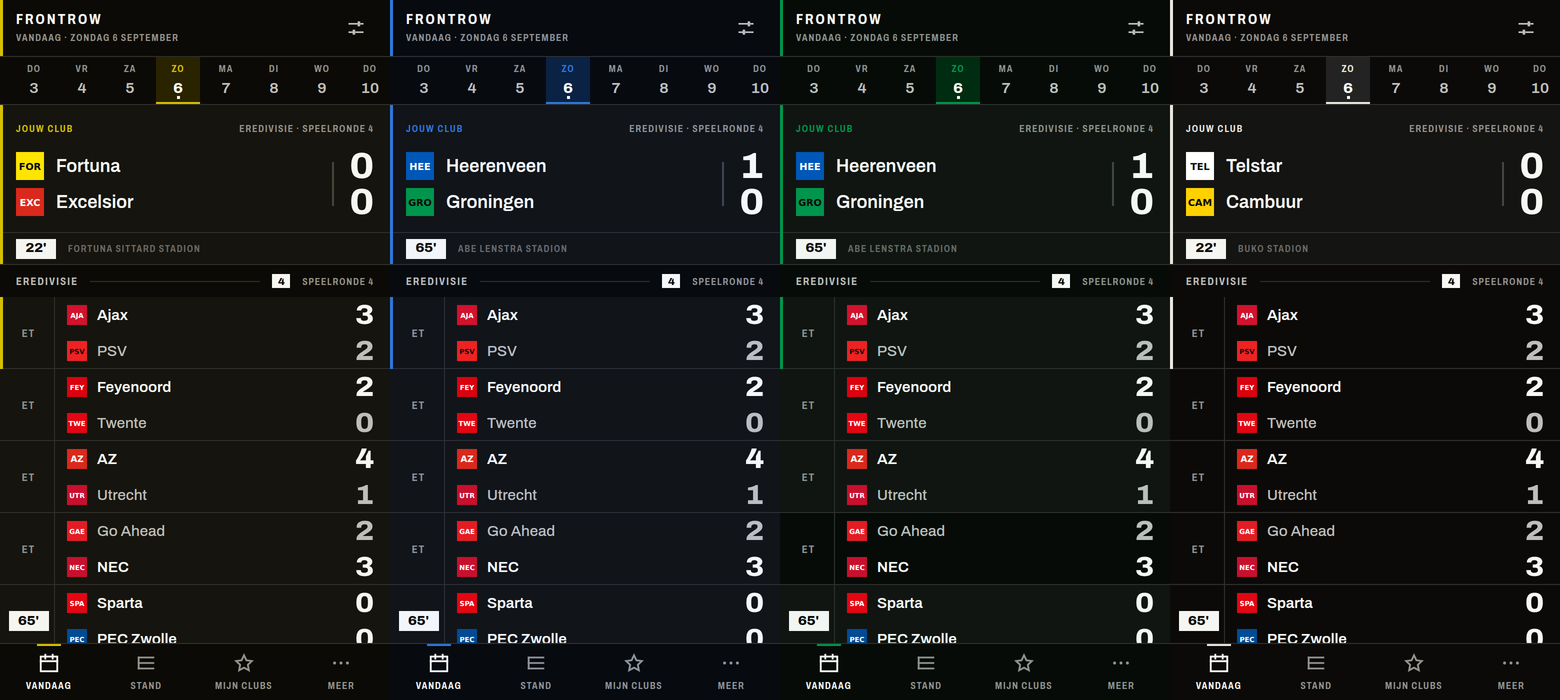
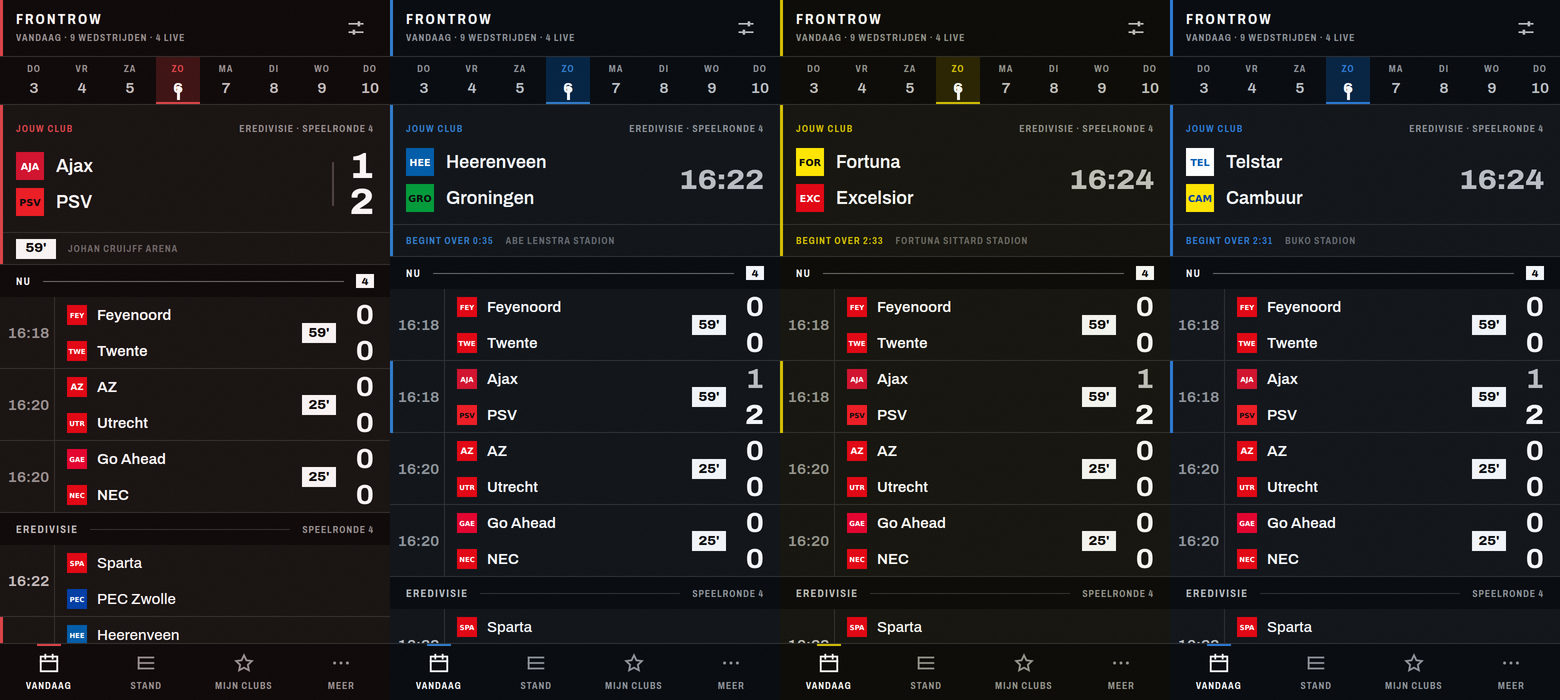
Frontrow: correct the Dutch details
Verified the seed data against openfootball and an ESPN teams dump. The club
lists were already right — 18 Eredivisie and 20 KKD, matching exactly — but
several details were not.

- Curated Eredivisie brand colours replace my approximations for fifteen
  clubs. These are deliberately not scraped: ESPN's own colour field returns
  white for FC Groningen and no green at all for Fortuna, so an automated
  refresh must never overwrite them.
- NEC and Telstar are the two genuinely unresolved cases — third-party sources
  disagree — and are now marked as such in the seed. Telstar turn out to be
  white and blue rather than white and black, which means the theme engine now
  correctly falls to their second colour instead of going monochrome; Heracles
  remain the monochrome case, and the test now covers both branches.
- Heerenveen keep the pompeblêden red as their second colour.
- Dutch table abbreviations fixed. "G" is used for both gespeeld and gelijk on
  different Dutch sites; Frontrow now uses G / W / GL / V, with DPV / DPT / DS
  and PNT. A Dutch table with the wrong letters reads as a foreign app.
- Score annotations are the ones Dutch fans actually expect: n.v., n.s., (p)
  and (e.d.).

Claude-Session: https://claude.ai/code/session_0181vbYt1HbtXw5J77PPPuxR

diff --git a/frontrow/backend/src/db/seed/teams.js b/frontrow/backend/src/db/seed/teams.js
@@ -1,6 +1,13 @@
 // Dutch professional clubs, seeded so Frontrow looks right the moment it starts
 // — crest colours, city, stadium and the alias spellings the providers use.
 //
+// The Eredivisie colours are curated from club brand sources, not scraped:
+// ESPN's own `color` field gets FC Groningen (returns white) and Fortuna (no
+// green at all) plainly wrong, so an automated refresh must never overwrite
+// these. NEC and Telstar are the two genuinely unresolved cases — third-party
+// datasets disagree — and both are marked below; correct them in Instellingen
+// and the app will remember.
+//
 // The sync engine can create a team it has never seen before (it happens with
 // cup ties against amateur sides), so this list is a head start, not a fence.
 // Colours are best-effort club brand colours; every one of them can be
@@ -17,15 +24,15 @@ export const TEAMS = [
        aliases: ['ajax', 'ajax amsterdam', 'afc ajax'] }),
   NL({ id: 'psv', name: 'PSV', full_name: 'PSV Eindhoven', short_name: 'PSV', code: 'PSV',
        city: 'Eindhoven', stadium: 'Philips Stadion', founded: 1913,
-       primary_color: '#EE2223', secondary_color: '#FFFFFF',
+       primary_color: '#ED1C24', secondary_color: '#FFFFFF',
        aliases: ['psv', 'psv eindhoven'] }),
   NL({ id: 'feyenoord', name: 'Feyenoord', full_name: 'Feyenoord Rotterdam', short_name: 'Feyenoord', code: 'FEY',
        city: 'Rotterdam', stadium: 'De Kuip', founded: 1908,
-       primary_color: '#DA020E', secondary_color: '#111111',
+       primary_color: '#E30613', secondary_color: '#FFFFFF',
        aliases: ['feyenoord', 'feyenoord rotterdam'] }),
   NL({ id: 'az', name: 'AZ', full_name: 'AZ Alkmaar', short_name: 'AZ', code: 'AZ',
        city: 'Alkmaar', stadium: 'AFAS Stadion', founded: 1967,
-       primary_color: '#DA291C', secondary_color: '#FFFFFF',
+       primary_color: '#E30613', secondary_color: '#FFFFFF',
        aliases: ['az', 'az alkmaar', 'alkmaar zaanstreek'] }),
   NL({ id: 'twente', name: 'FC Twente', full_name: 'FC Twente', short_name: 'Twente', code: 'TWE',
        city: 'Enschede', stadium: 'De Grolsch Veste', founded: 1965,
@@ -33,23 +40,24 @@ export const TEAMS = [
        aliases: ['twente', 'fc twente', 'twente enschede'] }),
   NL({ id: 'utrecht', name: 'FC Utrecht', full_name: 'FC Utrecht', short_name: 'Utrecht', code: 'UTR',
        city: 'Utrecht', stadium: 'Stadion Galgenwaard', founded: 1970,
-       primary_color: '#C8102E', secondary_color: '#111111',
+       primary_color: '#E30613', secondary_color: '#FFFFFF',
        aliases: ['utrecht', 'fc utrecht'] }),
   NL({ id: 'go_ahead_eagles', name: 'Go Ahead Eagles', full_name: 'Go Ahead Eagles', short_name: 'Go Ahead', code: 'GAE',
        city: 'Deventer', stadium: 'De Adelaarshorst', founded: 1902,
-       primary_color: '#E31C24', secondary_color: '#FFD200',
+       primary_color: '#E4032E', secondary_color: '#FFE500',
        aliases: ['go ahead eagles', 'go ahead', 'gae'] }),
+  // NEC: sources disagree (red+green, green+black, ESPN says red+light-blue).
   NL({ id: 'nec', name: 'NEC', full_name: 'NEC Nijmegen', short_name: 'NEC', code: 'NEC',
        city: 'Nijmegen', stadium: 'De Goffert', founded: 1900,
-       primary_color: '#C8102E', secondary_color: '#007A33',
+       primary_color: '#E30613', secondary_color: '#009036',
        aliases: ['nec', 'nec nijmegen', 'n e c'] }),
   NL({ id: 'heerenveen', name: 'sc Heerenveen', full_name: 'sc Heerenveen', short_name: 'Heerenveen', code: 'HEE',
        city: 'Heerenveen', stadium: 'Abe Lenstra Stadion', founded: 1920,
-       primary_color: '#0057B8', secondary_color: '#E1001A',
+       primary_color: '#005CA9', secondary_color: '#E30613',
        aliases: ['heerenveen', 'sc heerenveen'] }),
   NL({ id: 'groningen', name: 'FC Groningen', full_name: 'FC Groningen', short_name: 'Groningen', code: 'GRO',
        city: 'Groningen', stadium: 'Euroborg', founded: 1971,
-       primary_color: '#00954C', secondary_color: '#FFFFFF',
+       primary_color: '#009B3A', secondary_color: '#FFFFFF',
        aliases: ['groningen', 'fc groningen'] }),
   NL({ id: 'sparta', name: 'Sparta Rotterdam', full_name: 'Sparta Rotterdam', short_name: 'Sparta', code: 'SPA',
        city: 'Rotterdam', stadium: 'Het Kasteel', founded: 1888,
@@ -57,31 +65,32 @@ export const TEAMS = [
        aliases: ['sparta', 'sparta rotterdam'] }),
   NL({ id: 'pec_zwolle', name: 'PEC Zwolle', full_name: 'PEC Zwolle', short_name: 'PEC Zwolle', code: 'PEC',
        city: 'Zwolle', stadium: 'MAC³PARK stadion', founded: 1910,
-       primary_color: '#004B93', secondary_color: '#FFFFFF',
+       primary_color: '#003DA5', secondary_color: '#FFFFFF',
        aliases: ['pec zwolle', 'zwolle', 'pec'] }),
   NL({ id: 'fortuna_sittard', name: 'Fortuna Sittard', full_name: 'Fortuna Sittard', short_name: 'Fortuna', code: 'FOR',
        city: 'Sittard', stadium: 'Fortuna Sittard Stadion', founded: 1968,
-       primary_color: '#FFE500', secondary_color: '#007A33',
+       primary_color: '#FFE600', secondary_color: '#009036',
        aliases: ['fortuna sittard', 'fortuna'] }),
+  // Telstar: "de Witte Leeuwen" — white and blue; ESPN reports red and yellow.
   NL({ id: 'telstar', name: 'Telstar', full_name: 'SC Telstar', short_name: 'Telstar', code: 'TEL',
        city: 'Velsen-Zuid', stadium: 'BUKO Stadion', founded: 1963,
-       primary_color: '#FFFFFF', secondary_color: '#111111',
+       primary_color: '#FFFFFF', secondary_color: '#005EB8',
        aliases: ['telstar', 'sc telstar'] }),
   NL({ id: 'excelsior', name: 'Excelsior', full_name: 'SBV Excelsior', short_name: 'Excelsior', code: 'EXC',
        city: 'Rotterdam', stadium: 'Van Donge & De Roo Stadion', founded: 1902,
-       primary_color: '#DA291C', secondary_color: '#111111',
+       primary_color: '#E30613', secondary_color: '#000000',
        aliases: ['excelsior', 'sbv excelsior', 'excelsior rotterdam'] }),
   NL({ id: 'ado_den_haag', name: 'ADO Den Haag', full_name: 'ADO Den Haag', short_name: 'ADO', code: 'ADO',
        city: 'Den Haag', stadium: 'Bingoal Stadion', founded: 1905,
-       primary_color: '#009639', secondary_color: '#FFF200',
+       primary_color: '#FFD500', secondary_color: '#007A33',
        aliases: ['ado den haag', 'ado', 'den haag'] }),
   NL({ id: 'cambuur', name: 'SC Cambuur', full_name: 'SC Cambuur Leeuwarden', short_name: 'Cambuur', code: 'CAM',
        city: 'Leeuwarden', stadium: 'Cambuur Stadion', founded: 1964,
-       primary_color: '#FFD100', secondary_color: '#005CB9',
+       primary_color: '#FFE500', secondary_color: '#003DA5',
        aliases: ['cambuur', 'sc cambuur', 'cambuur leeuwarden'] }),
   NL({ id: 'willem_ii', name: 'Willem II', full_name: 'Willem II Tilburg', short_name: 'Willem II', code: 'WIL',
        city: 'Tilburg', stadium: 'Koning Willem II Stadion', founded: 1896,
-       primary_color: '#E30613', secondary_color: '#004B93',
+       primary_color: '#E30613', secondary_color: '#003DA5',
        aliases: ['willem ii', 'willem 2', 'willem ii tilburg'] }),
 
   // ------------------------------- Keuken Kampioen Divisie 2026/27 (20) ----

diff --git a/frontrow/frontend/test/theme.test.js b/frontrow/frontend/test/theme.test.js
@@ -73,13 +73,22 @@ test('the two accents are never confusable', () => {
   }
 });
 
-test('monochrome clubs get a monochrome theme, not an invented colour', () => {
-  // Telstar play in white and black; Heracles in black and white.
-  for (const id of ['telstar', 'heracles']) {
-    const club = TEAMS.find((c) => c.id === id);
-    const t = buildTheme({ primary: club.primary_color, secondary: club.secondary_color });
-    assert.ok(hexToOklch(t['--accent']).C < 0.05, `${id}: accent should stay neutral, got ${t['--accent']}`);
-  }
+test('a club with no usable hue falls to its second colour, then to monochrome', () => {
+  // Two branches of the same rule. Telstar play in white and blue: the primary
+  // has no hue to work with, so the engine takes the blue rather than inventing
+  // something. Heracles play in black and white: there is no hue anywhere, so
+  // the theme commits to monochrome instead of making a colour up.
+  const telstar = TEAMS.find((c) => c.id === 'telstar');
+  const tel = buildTheme({ primary: telstar.primary_color, secondary: telstar.secondary_color });
+  assert.ok(hexToOklch(tel['--accent']).C > 0.05,
+    `telstar: should adopt its second colour, got ${tel['--accent']}`);
+  assert.ok(hueDistance(hexToOklch(tel['--accent']).H, hexToOklch(telstar.secondary_color).H) < 15,
+    'telstar: the accent should be the club\'s own blue, not a new hue');
+
+  const heracles = TEAMS.find((c) => c.id === 'heracles');
+  const her = buildTheme({ primary: heracles.primary_color, secondary: heracles.secondary_color });
+  assert.ok(hexToOklch(her['--accent']).C < 0.05,
+    `heracles: accent should stay neutral, got ${her['--accent']}`);
 });
 
 test('chromatic clubs keep their own hue', () => {

diff --git a/frontrow/frontend/src/i18n/nl.js b/frontrow/frontend/src/i18n/nl.js
@@ -46,8 +46,8 @@ export default {
     abandoned: 'Gestaakt',
     ft: 'ET',           // eindstand
     ht: 'RUST',
-    aet: 'NV',          // na verlenging
-    pens: "STR",        // strafschoppen
+    aet: 'n.v.',        // na verlenging — the annotation Dutch fans expect
+    pens: 'n.s.',       // na strafschoppen
     ftLong: 'Eindstand',
     aetLong: 'Na verlenging',
     pensLong: 'Na strafschoppen',
@@ -86,8 +86,8 @@ export default {
     substitution: 'Wissel',
     var: 'VAR',
     assist: 'assist',
-    ownGoalShort: 'e.d.',
-    penaltyShort: 'pen.',
+    ownGoalShort: '(e.d.)',
+    penaltyShort: '(p)',
     subOn: 'in',
     subOff: 'uit',
   },
@@ -95,14 +95,16 @@ export default {
     title: 'Stand',
     position: '#',
     club: 'Club',
+    // G is ambiguous in Dutch tables — it is used for both gespeeld and gelijk.
+    // Frontrow picks G / W / GL / V and stays consistent.
     played: 'G',
     won: 'W',
-    drawn: 'G',
+    drawn: 'GL',
     lost: 'V',
-    goalsFor: 'DV',
-    goalsAgainst: 'DT',
+    goalsFor: 'DPV',
+    goalsAgainst: 'DPT',
     goalDiff: 'DS',
-    points: 'Ptn',
+    points: 'PNT',
     form: 'Vorm',
     playedLong: 'Gespeeld',
     wonLong: 'Gewonnen',
